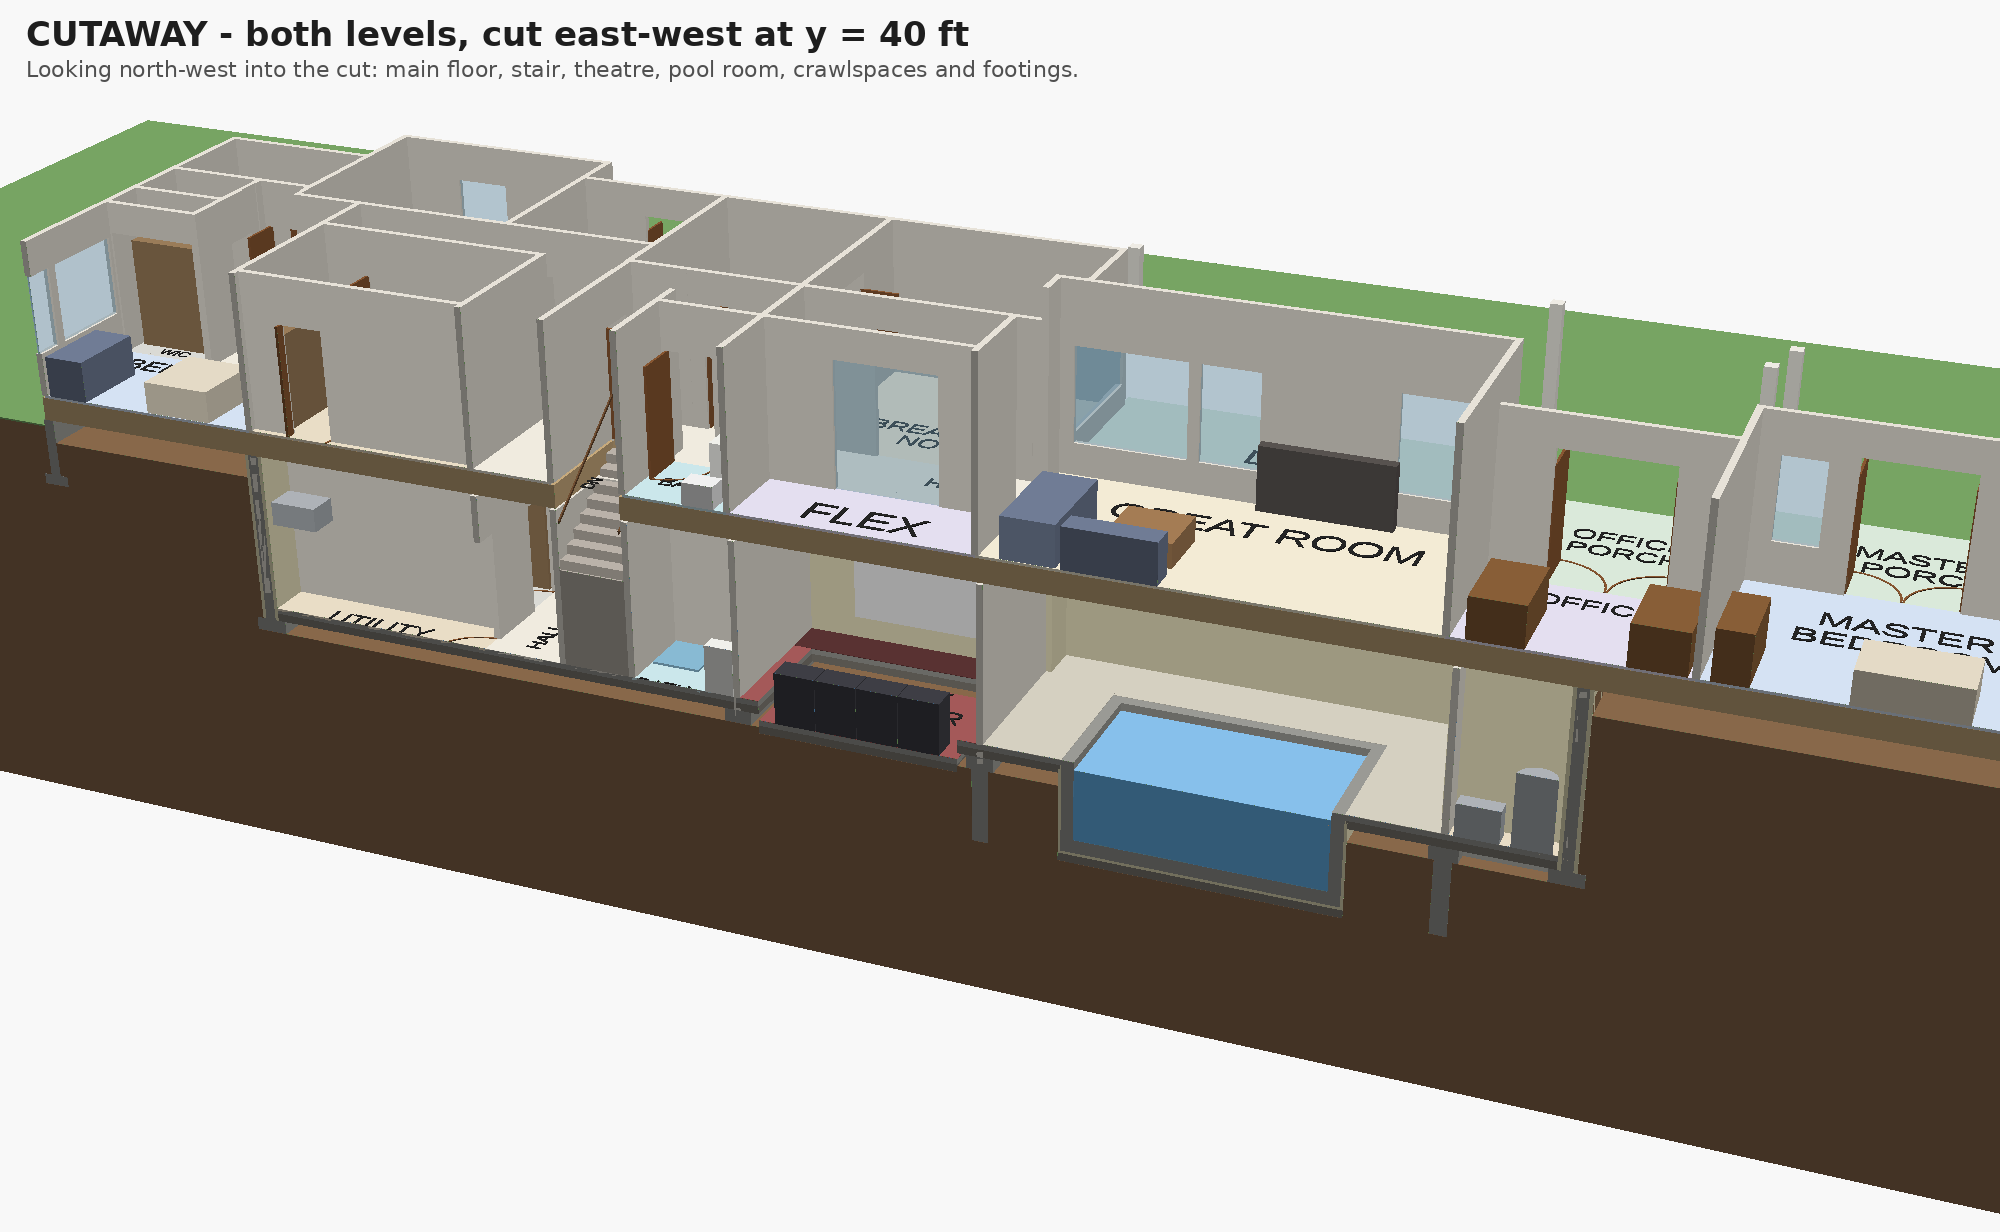
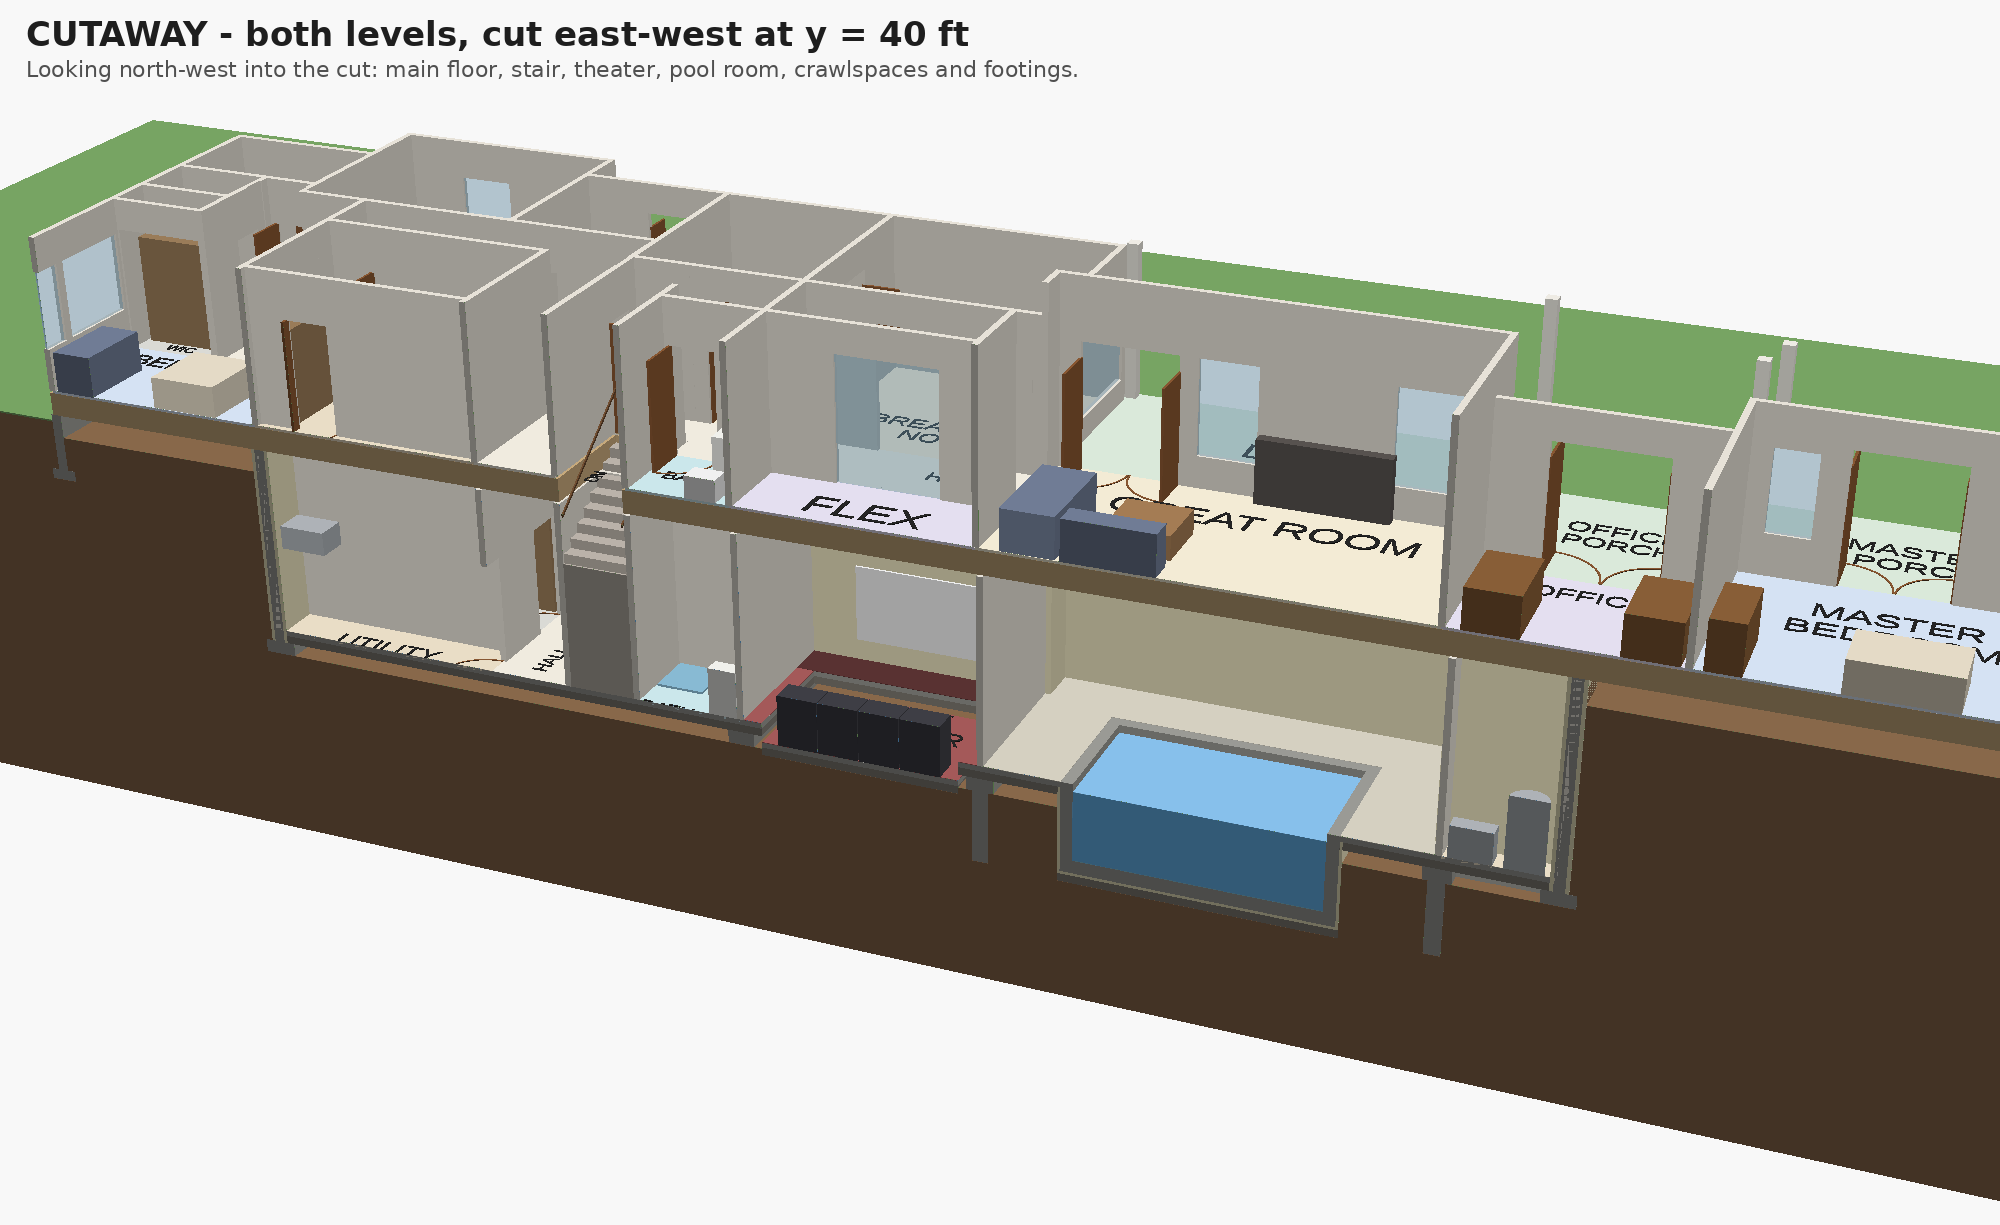
12 ft basement, great room door to the deck, basement exit stair
- floor_to_floor() = 13.75 ft: 12 ft basement ceilings. The main stair
  becomes 22 risers of 7 1/2" with 1 993 mm headroom; the rooms, the
  foundation, the pool and the theater follow.
- Great room: 6 ft French doors onto the deck, in place of the drawn
  window at the west end of its north wall.
- Basement exit stair: an areaway outside the gym's north wall, with a
  3'-6" door opening in, a landing, and 19 risers rising east along the
  house to grade beside the deck. Retaining walls with a 42" guard, the
  nook's frost wall carried down to the areaway floor, and a landing
  slab at grade (foundation.scad, basement.scad). Section E runs along
  it, and the lawn stays open over it.
- site.scad: the tunnel will connect to the basement utility room, its
  route still to be planned.
- Spec (exit stair options and design, 12 ft levels), README and the
  renders updated.

Claude-Session: https://claude.ai/code/session_018d8BEoLUnZJHvcnz3sBah6

diff --git a/docs/house/Redesign-and-Spec-2026-11-02.md b/docs/house/Redesign-and-Spec-2026-11-02.md
@@ -10,7 +10,16 @@ This document covers:
 3. the foundation;
 4. the concrete for the indoor pool and the hot tub that spills into it;
 5. the stadium-tiered home theater floor;
-6. the open questions.
+6. the basement exit stair;
+7. the open questions.
+
+**Update, Nov 2:**
+
+- The basement is now 12 ft clear.
+- The great room has a door onto the deck.
+- The basement has an exit stair up to the back yard (section 6).
+- The shop tunnel will connect to the basement utility room; its route
+  comes later.
 
 The site is rural Alberta (see
 [`../House-Review-and-Research-2026-10-28.md`](../House-Review-and-Research-2026-10-28.md)).
@@ -35,6 +44,8 @@ Code references are to the National Building Code, Alberta Edition (NBC-AE), and
 | Section B: along the stair | [`section_b.png`](section_b.png) |
 | Section C: through the theater | [`section_c.png`](section_c.png) |
 | Section D: through the pool and spa | [`section_d.png`](section_d.png) |
+| Section E: along the basement exit stair | [`section_e.png`](section_e.png) |
+| The exit stair, from the back yard and cut open | [`exit_stair.png`](exit_stair.png), [`exit_stair_cut.png`](exit_stair_cut.png) |
 | Foundation alone | [`foundation.png`](foundation.png) |
 | Both levels, apart | [`house_exploded.png`](house_exploded.png) |
 | Outside | [`house_front.png`](house_front.png), [`house_back.png`](house_back.png) |
@@ -59,30 +70,37 @@ within 1–2 in of its labelled size.
 | Main floor (finished) | 0'-0" |
 | Top of foundation walls (sill) | −1'-7½" (18" floor trusses + subfloor) |
 | Grade | −2'-0" |
-| Basement ceiling | 10'-0" clear (theater front tier: 11'-3") |
-| Basement floor (slab top) | −11'-9" |
-| Footing top / bottom | −12'-7" / −13'-5" (11'-5" below grade) |
-| Theater front tier | −13'-0" |
-| Pool water surface / pool floor | −12'-3" / −16'-9" |
-| Spa rim / water / floor | −10'-3" / −10'-5" / −13'-11" |
-| Bottom of the pool excavation | −18'-3" (16'-3" below grade) |
+| Basement ceiling | 12'-0" clear (theater front tier: 13'-3") |
+| Basement floor (slab top) | −13'-9" (11'-9" below grade) |
+| Footing top / bottom | −14'-7" / −15'-5" (13'-5" below grade) |
+| Theater front tier | −15'-0" |
+| Pool water surface / pool floor | −14'-3" / −18'-9" |
+| Spa rim / water / floor | −12'-3" / −12'-5" / −15'-11" |
+| Bottom of the pool excavation | −20'-3" (18'-3" below grade) |
 | Frost-wall footings | −6'-0" (4'-0" below grade) |
 
 The floor-to-floor height is one parameter, `floor_to_floor()` in
-`models/house_lib.scad`. It is 11.75 ft, which gives 10 ft basement
-ceilings. The earlier research assumed 12 ft ceilings; for those, set it to
-13.75. The basement rooms and the stair follow automatically: 22 risers of
-7½", with the foot 2.6 ft further south, still in the hallway.
+`models/house_lib.scad`. It is **13.75 ft, which gives 12 ft basement
+ceilings**. These follow it automatically:
+
+- the basement rooms;
+- the main stair: 22 risers;
+- the exit stair: 19 risers up to grade;
+- the foundation;
+- the pool and theater levels.
+
+For 10 ft ceilings, set it to 11.75.
 
 ### 1.2 Changes from the drawings
 
 1. **The stair** (section 2). It is drawn entered from the south on both
    floors, which no straight stair can do, and its box is about 9 ft long,
    too short for any basement stair. It now starts at the north end in the
-   upper hall and runs 15'-9" south, under the main hall, to the basement
+   upper hall and runs 18'-4½" south, under the main hall, to the basement
    hallway.
-2. **Basement hallway**: 1.7 ft deeper, and the living room 1.7 ft shorter,
-   so the foot of the stair has a proper landing.
+2. **Basement hallway**: 1.7 ft deeper, and the living room 1.7 ft shorter.
+   The foot of the stair lands in the hallway, at the 8 ft archway into the
+   living room.
 3. **Basement doors**: the sketch has none, so 19 were added. Two to note:
    - the theater door swings out into the hallway, clear of the back row;
    - the pool room and the pool bath each open off the long hall.
@@ -94,6 +112,11 @@ ceilings. The earlier research assumed 12 ft ceilings; for those, set it to
    walls are thicker than the drawn walls.
 7. **Furniture and fixtures** are illustrative: the plan's own, plus
    equipment in the utility and pool equipment rooms.
+8. **Great room to the deck**: 6'-0" French doors, swinging in, take the
+   place of the drawn 6'-9" two-pane window at the west end of the great
+   room's north wall, nearest the kitchen and the nook. The plan had no
+   door onto the deck.
+9. **Basement exit stair**: added outside the gym (section 6).
 
 `tools/check_layout.py` checks both levels after every edit. It confirms:
 
@@ -106,18 +129,18 @@ ceilings. The earlier research assumed 12 ft ceilings; for those, set it to
 
 | | Model | NBC-AE limit (stairs in a dwelling unit) |
 |---|---|---|
-| Rise | 19 risers × 7.42" (188 mm) = 11'-9" | ≤ 200 mm (7⅞") *verify* [S1] |
-| Run | 18 treads × 10½" (267 mm) = 15'-9" | ≥ 255 mm (10") *verify* [S1] |
-| 2R + T | 25.3" | comfortable range ~24–25½" (rule of thumb) |
+| Rise | 22 risers × 7½" (190.5 mm) = 13'-9" | ≤ 200 mm (7⅞") *verify* [S1] |
+| Run | 21 treads × 10½" (267 mm) = 18'-4½" | ≥ 255 mm (10") *verify* [S1] |
+| 2R + T | 25½" | comfortable range ~24–25½" (rule of thumb) |
 | Clear width | 4'-2½" (1 286 mm) between walls | ≥ 860 mm |
-| Headroom | ≥ 1 967 mm at the tightest point | ≥ 1 950 mm [S1][S2] |
+| Headroom | ≥ 1 993 mm at the tightest point | ≥ 1 950 mm [S1][S2] |
 | Handrails | both sides in the model | at least one side for > 2 risers; 865–965 mm high *verify* [S3] |
-| Landings | top: the upper hall; bottom: the hallway, with 3'-9" before the living room opening | ≥ stair width, ≥ 900 mm long |
+| Landings | top: the upper hall; bottom: at the 8 ft archway into the living room, 5 ft clear to the sofa | ≥ stair width, ≥ 900 mm long |
 
 **Headroom.** Headroom is the tight dimension. The main hall's floor
 (1'-7½" deep) crosses over the lower half of the flight. The floor opening
 runs 11'-5" from the top nosing back to the main hall's north wall. That
-keeps 1 967 mm of clear height under the floor edge, measured vertically
+keeps 1 993 mm of clear height under the floor edge, measured vertically
 from the line of the nosings. The opening cannot get shorter without
 cutting into the main hall.
 
@@ -136,13 +159,12 @@ document, §1.3–1.5.
 ### 3.1 Basement walls and footings
 
 - **ICF walls:** an 8" concrete core with 2⅝" EPS on each face, 13¼"
-  overall, running from the footing to the sill (about 11'-2" of wall).
-  - Reinforcement follows the ICF maker's Canadian prescriptive tables or
-    the engineer. For about 9½' of backfill this is typically 15M verticals
-    and 15M horizontals in every course at 400 mm (16"); *engineer to
-    confirm*.
-  - Build in bucks for any basement windows (section 6).
-- **Perimeter footings:** 24" × 10", on undisturbed soil 11'-5" below
+  overall, running from the footing to the sill (about 13'-0" of wall).
+  - About 11¾ ft of backfill against a 13 ft wall is past most prescriptive
+    ICF tables, so it needs an **engineered design**. Expect 15M verticals
+    and horizontals at about 400 mm (16") or closer.
+  - Build in a buck for the exit door (section 6), and for any windows.
+- **Perimeter footings:** 24" × 10", on undisturbed soil 13'-5" below
   grade. Frost does not govern at this depth.
 - **Interior bearing lines:** thickened-slab strip footings, 20" wide,
   under the main floor's bearing walls:
@@ -294,7 +316,7 @@ The pool pit adds a second, deeper drain loop (section 4.4).
 
 ### 4.4 Below the shell: water, insulation, drainage
 
-- **Groundwater.** The pit bottom is 16'-3" below grade. Before anything
+- **Groundwater.** The pit bottom is 18'-3" below grade. Before anything
   else, the geotech must establish the seasonal-high water table.
   - The design must resist uplift when the pool is drained. A drained shell
     in high groundwater can float.
@@ -397,37 +419,79 @@ front spectator's eye. It is the standard way to size risers [S17].
   way.
 - **Cheaper alternative:** build a framed 15" riser on a flat slab. This
   needs no depressed concrete, but it puts a step at the door and leaves the
-  rear row 8'-9" of headroom.
+  rear row 10'-9" of headroom.
 
-## 6. Open questions for you
+## 6. Basement exit stair
 
-1. **Basement egress and daylight.** The basement sketch has no windows or
-   outside door. With no basement bedrooms the NBC does not require an
-   egress window. Even so, a pool room, gym, theater and music room
-   deserve:
-   - at least one egress-size window in a window well, or an exterior
-     stair out of the basement (the previous design had one);
-   - some daylight.
+![The exit stair, cut along its length](exit_stair_cut.png)
 
-   Window bucks have to go into the ICF before the pour.
-2. **Utility tunnel to the shop.**
-   - The shop plan (`docs/shop/Shop-Base-Plan.md`, `models/site.scad`)
-     brings the tunnel due south on x = 80 into the old basement's
-     north-side UTILITIES room.
-   - The new basement's UTILITY room is on the west side, 14'-6" × 7', and
-     on x = 80 the north wall is now the pool room's.
-   - The site model draws the tunnel to that wall so the conflict shows.
-     Its landing needs re-planning: move the tunnel, or move a utility
-     room to the north wall.
+The basement plan has no way out but the main stair. As in the previous
+design, the model adds an exterior stair in an **areaway**: a walled,
+open-topped stairwell outside the foundation.
+
+### 6.1 Where it can go
+
+An outdoor stair needs open sky above it for headroom. Most of the
+basement's outside walls are under the main floor or its porches, which
+rules them out.
+
+| Basement wall | What is above or beside it | Verdict |
+|---|---|---|
+| **Gym's north wall** | Open back yard behind the sitting room and the nook; the deck to the east, the study stoop to the west | **Chosen** |
+| Music room's north wall | The bunk room above it as far as x = 32.6; the study stoop and its steps beside the rest | No room for the stair |
+| Living room's south wall | Open front yard, west of the front porch | Possible, but it sits in the front elevation, next to the main stair |
+| Living room's west wall | An 11 ft gap between the garage and the kitchen, with the side-entry steps in it | Too small for a straight stair |
+| Pool room and pool equipment (north, east) | Under the deck and the office porch, which are 2 ft above grade | No headroom; a pool-room exit also fights condensation |
+| Every other outside wall | The main floor | — |
+
+### 6.2 The design
+
+![The exit stair from the back yard](exit_stair.png)
+
+- **Door:** a 3'-6" exterior door in the gym's north wall, between the
+  treadmill and the power rack.
+  - It opens inward, so drifting snow can't block it.
+  - It is at the opposite end of the basement from the foot of the main
+    stair, so the two ways out are far apart.
+- **Areaway:** 4'-0" clear, running along the outside of the house.
+  - A 4'-8" landing at the basement floor.
+  - Then a straight flight rising east along the north walls of the sitting
+    room and the nook.
+  - It reaches grade just west of the deck, beside the deck steps, on a
+    2'-2" landing slab.
+- **Stair:** 19 risers × 7.42" (188 mm) = 11'-9", and 18 treads × 11"
+  (279 mm) = 16'-6". The treads are a little deeper than indoors, for snow
+  and boots.
+- **Walls:**
+  - 8" concrete retaining walls on 20" footings, on the north and west
+    sides, up to a 6" curb above grade.
+  - A **42" guard** on the curb. Over a drop this deep the NBC calls for
+    1 070 mm *verify*.
+- **The house side:**
+  - Along the gym it is the basement's ICF wall.
+  - East of the gym it is the nook's frost wall, which must be **carried
+    down to the areaway floor** for about 12 ft; the model shows this.
+- **Water and snow:**
+  - a drain at the bottom landing, piped to the sump;
+  - a cover, at least over the lower half, so the stair doesn't fill with
+    snow: a shed roof or a canopy off the house wall;
+  - heated or heat-traced treads are worth considering.
+- **Service entrance.** A straight stair and a 3'-6" door are also how the
+  piano, the gym equipment and the pool plant get into the basement.
+
+## 7. Open questions for you
+
+1. **Utility tunnel to the shop.** It will connect to the basement's
+   UTILITY room: 14'-6" × 7', on the west side, behind the storage room.
+   Its route comes later.
+   - Until then, `models/site.scad` keeps drawing it on x = 80, which meets
+     the pool room's north wall.
    - The site and shop renders in `docs/shop/` still show the old house.
-3. **Deck access.** The plan shows no door from the great room or the
-   breakfast nook onto the north deck; the deck is reached only by its
-   steps.
-4. **Basement height.** It is 10 ft clear here, against 12 ft in the
-   earlier research. That is one parameter (section 1.1).
-5. **Geotech first.** These all hang on the report:
+2. **Daylight in the basement.** There are still no windows. Window bucks
+   have to go into the ICF before the pour, so decide before then.
+3. **Geotech first.** These all hang on the report:
    - sulphate class (cement type);
-   - seasonal-high groundwater against a pool pit 16 ft down;
+   - seasonal-high groundwater against a pool pit 18 ft down;
    - bearing capacity for the deepened footings.
 
 ## Sources

diff --git a/README.md b/README.md
@@ -14,6 +14,7 @@ for:
 - the foundation;
 - the concrete for the indoor pool and its hot tub;
 - the stadium-tiered theater floor;
+- the basement exit stair;
 - the open questions.
 
 ![Both levels, cut east-west](docs/house/cutaway.png)
@@ -21,12 +22,12 @@ for:
 | File | What |
 |---|---|
 | `models/main_floor.scad` | Main level from `main_floor.jpg`: rooms, doors, windows, kitchen and bath fixtures, furniture, porches, hipped roof, the floor framing |
-| `models/basement.scad` | Lower level from `basement.jpg`: music room, gym, theater, pool + spa + pool bath, pet room, living room, utility, laundry |
-| `models/foundation.scad` | The concrete: ICF basement walls and footings, slab, theater tiers, pool + spa shells, frost walls, garage slab, porch piers, and the earth for sections |
+| `models/basement.scad` | Lower level from `basement.jpg`, with 12 ft ceilings: music room, gym, theater, pool + spa + pool bath, pet room, living room, utility, laundry, and the exit stair up to the back yard |
+| `models/foundation.scad` | The concrete: ICF basement walls and footings, slab, theater tiers, pool + spa shells, the exit stair's areaway, frost walls, garage slab, porch piers, and the earth for sections |
 | `models/house_combined.scad` | Everything together (it `use`s the files above): assembled, exploded, foundation and section views |
 | `models/house_lib.scad` | Shared modules, the floor-to-floor height and the stair |
 | `models/shop.scad` | The 100 × 100 ft 4-bay shop (v3: behind the house, front faces west, Bay 1 utilities southernmost) with pit, wash-bay drain and the Bay 1 utility rooms |
-| `models/site.scad` | The whole property: house, shop, west shared driveway, front loop + garden, shop tree belt, well and septic zones. It also has the utility tunnel from Bay 1 to the basement; its landing needs re-planning for the new basement (spec §6) |
+| `models/site.scad` | The whole property: house, shop, west shared driveway, front loop + garden, shop tree belt, well and septic zones. It also has the utility tunnel from Bay 1 to the basement, which will connect to the basement utility room; its route is still to be planned (spec §7) |
 | `tools/check_layout.py` | Layout checker (needs `openscad` on `PATH`) |
 
 Research and planning documents live in `docs/`:
@@ -60,6 +61,7 @@ Set them in the OpenSCAD Customizer or with `-D name=value`.
   - `B`: along the stair.
   - `C`: through the theater.
   - `D`: through the pool and spa.
+  - `E`: along the basement exit stair.
   - `custom`: set `cut_axis` (`x`/`y`) and `cut_at` yourself.
 
   Cut faces are drawn darker than the surfaces beyond them.
@@ -87,7 +89,7 @@ The coordinates:
   is the garage's west wall and y = 0 the front wall of the den and the
   breakfast bay.
 - z = 0 is the main floor. The basement floor is `floor_to_floor()`
-  (11.75 ft) below it.
+  (13.75 ft, for 12 ft ceilings) below it.
 - Every table format is described at the top of `models/house_lib.scad`.
 
 After editing, run the checker:
@@ -110,8 +112,9 @@ and section A:
 openscad -o plan.png --imgsize=3600,2300 --projection=o \
   --camera=69,25.7,0,0,0,0,235 -D show_roof=false main_floor.scad
 openscad -o section_a.png --imgsize=3000,1000 --projection=o \
-  --camera=69,40,-3,90,0,0,190 -D 'mode="section"' -D 'section="A"' house_combined.scad
+  --camera=69,40,-4,90,0,0,190 -D 'mode="section"' -D 'section="A"' house_combined.scad
 ```
 
-For sections B–D, look east with `--camera=<x>,25,-3,90,0,270,150`.
+For sections B–D, look east with `--camera=<x>,25,-4,90,0,270,150`;
+for E, look north with `--camera=57,65.75,-7,90,0,0,70`.
 Sections take a minute or two each: every cut face is computed exactly.
